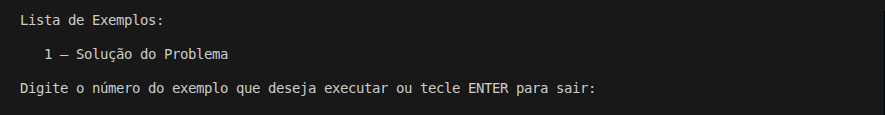
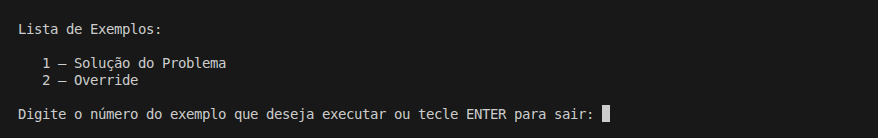
docs: adiciona descricao e screenshot da versao 0.3

Changed region(s): [[0.0, 0.7043, 0.7073, 0.887], [0.0308, 0.4174, 0.2768, 0.6261], [0.0, 0.1304, 0.1845, 0.2609]]

diff --git a/Project/README.md b/Project/README.md
@@ -16,22 +16,18 @@ area = RaizQ(p * (p - S1) * (p - S2) * (p - S3))
 
 ## Detalhes Gerais
 
-- **Versão**: 0.2.1
-- **Conceito aplicado:** Refatoração de Código
+- **Versão**: 0.3
+- **Conceito aplicado:** Sobrescrita (Override)
 
 ## Descrição da Versão
 
 ```bash
 
-Refatoracao estrutural para melhorar a
-organizacao do codigo.
+Introduz representacao textual da entidade.
 
-Metodos de entrada e saida foram movidos
-para classes dedicadas (TriangleInputs e
-TriangleOutputs) dentro de Src/IO, e a
-comparacao de areas foi centralizada em
-TrianguleUtils, deixando o programa
-principal mais enxuto e didatico.
+A classe passa a sobrescrever o metodo
+ToString para exibir seus atributos e
+a area calculada.
 
 ```
 
@@ -42,3 +38,7 @@ principal mais enxuto e didatico.
 (Solução do Problema)
 
 <img src="Img/ProblemSolution.png" alt="ProblemSolution" width="936">
+
+(Exemplo de Override)
+
+<img src="Img/Override.png" alt="Override" width="936">
